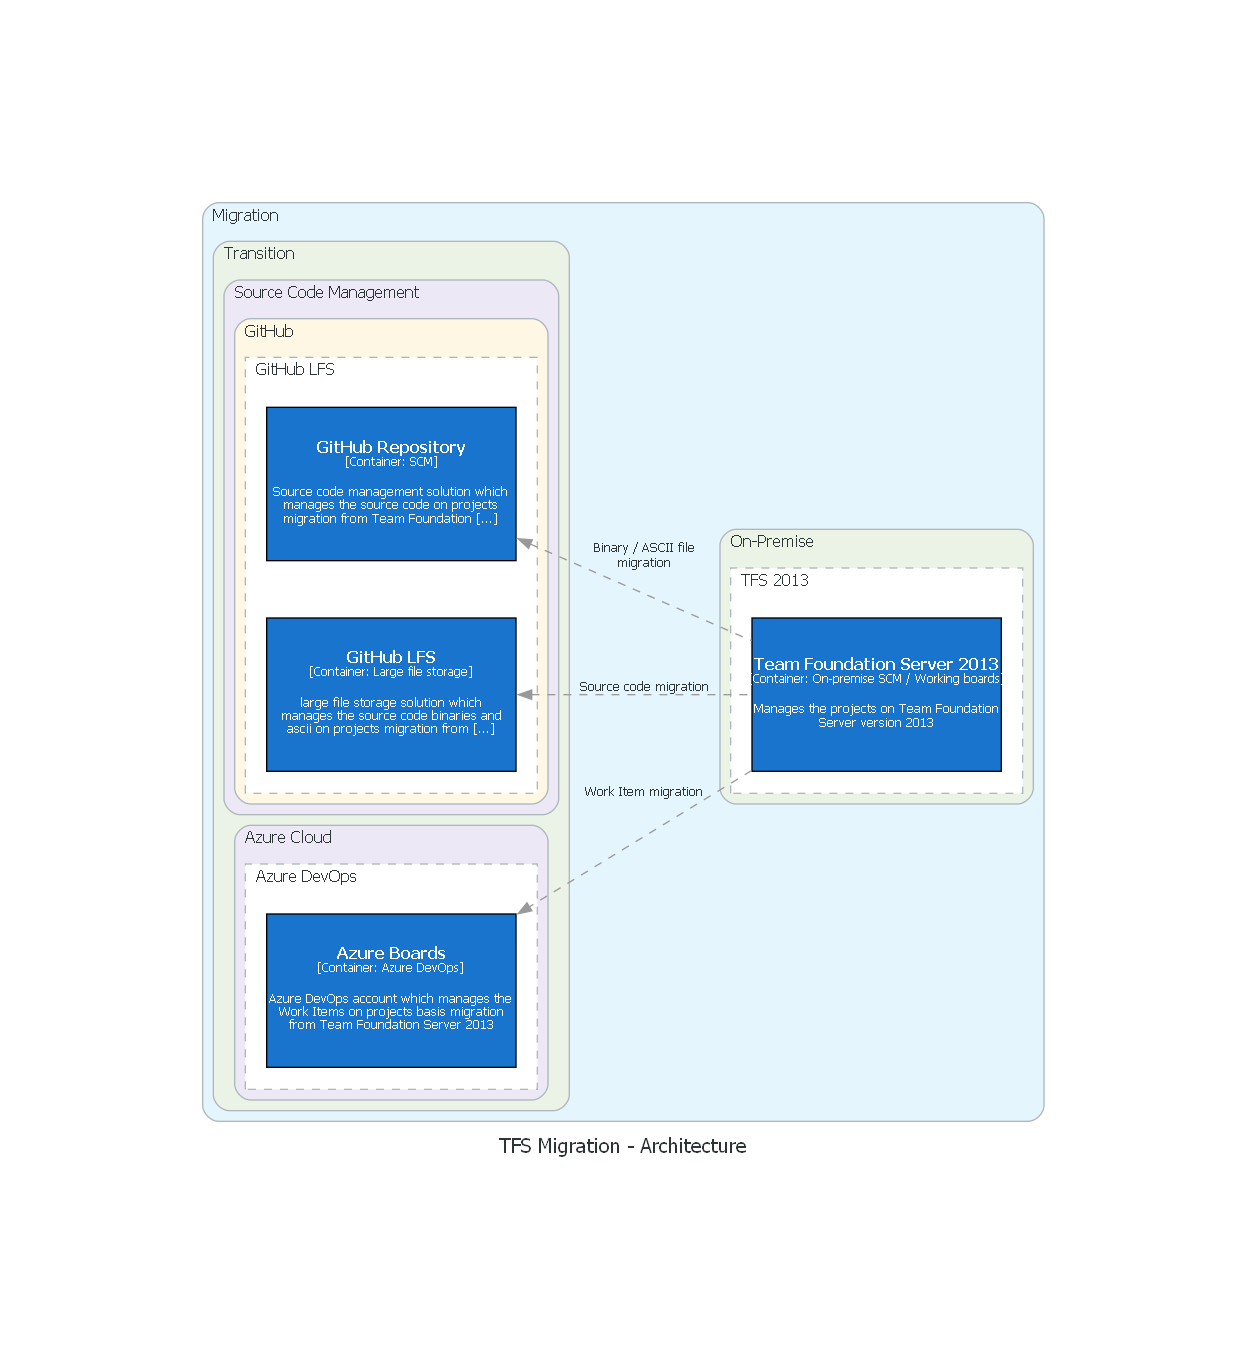
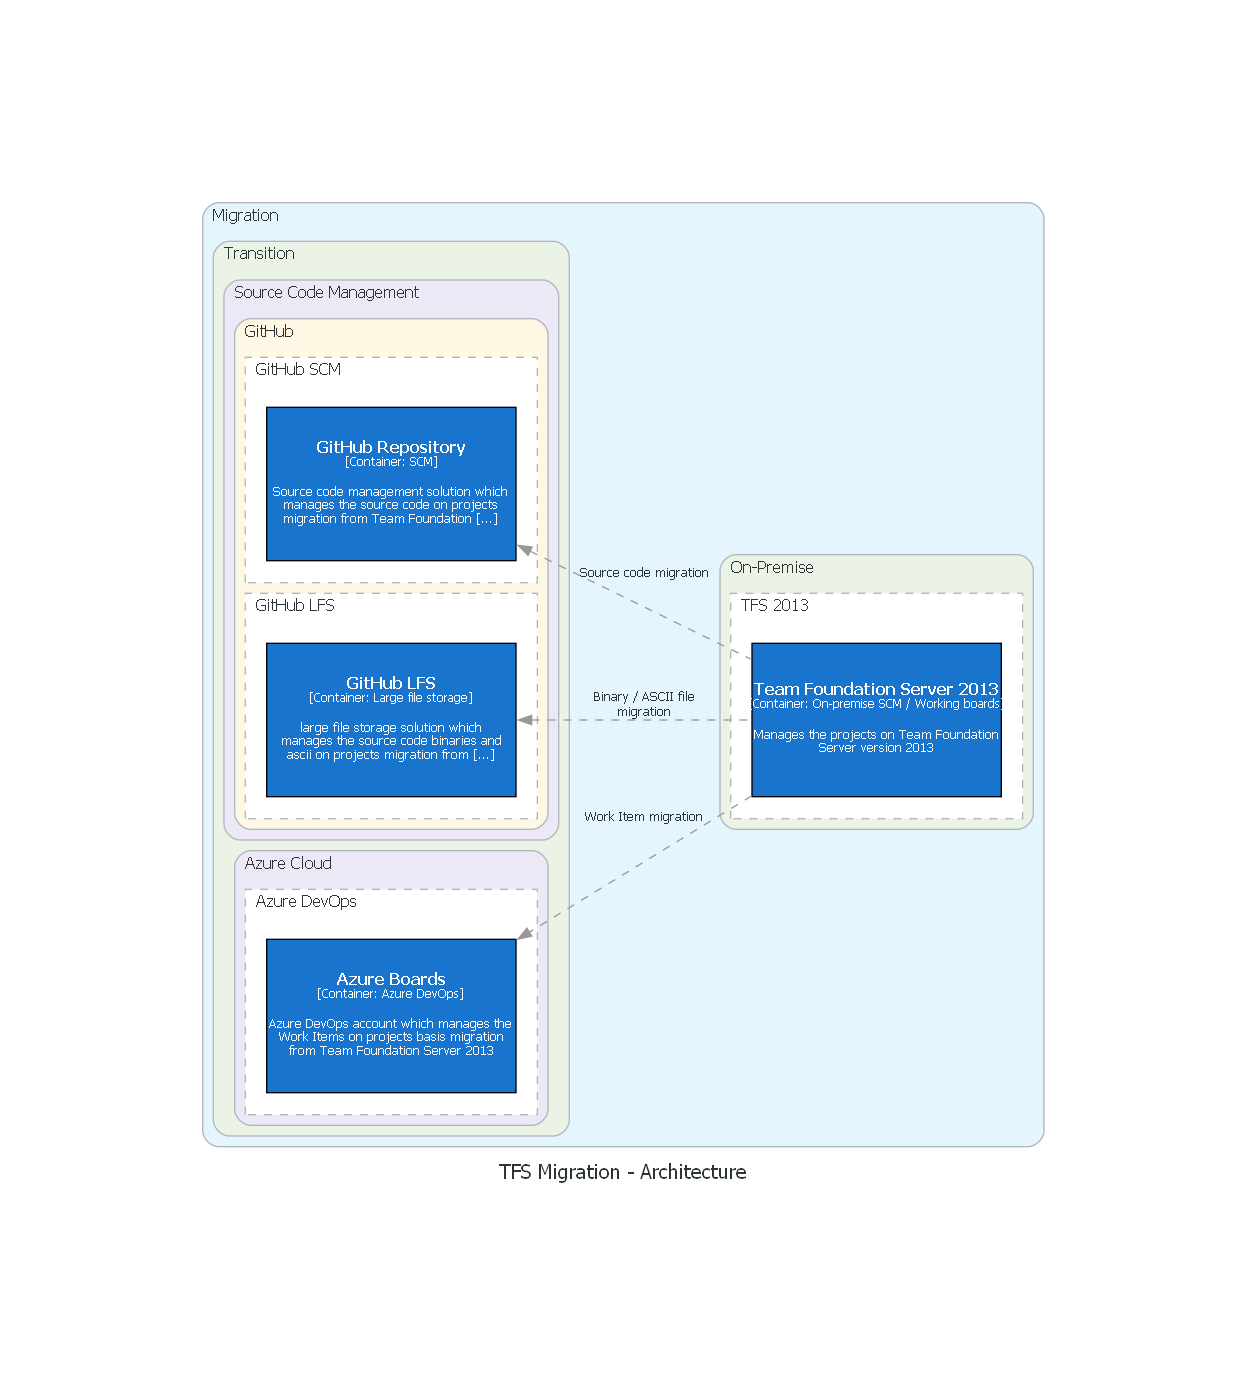
typo: corrected the architecture

Changed region(s): [[0.1524, 0.1238, 0.8228, 0.8666], [0.4571, 0.3714, 0.8228, 0.619], [0.518, 0.5881, 0.5485, 0.619]]

diff --git a/architecture/main.py b/architecture/main.py
@@ -26,13 +26,13 @@ with Diagram("TFS Migration - Architecture", direction="LR", graph_attr=graph_at
             with Cluster("Source Code Management"):
                 with Cluster("GitHub"):
                     with SystemBoundary("GitHub LFS"):
-                        github = Container(
+                        github_lfs = Container(
                             name="GitHub LFS",
                             technology="Large file storage",
                             description="large file storage solution which manages the source code binaries and ascii on projects migration from Team Foundation Server 2013",
                         )
-                    with SystemBoundary("GitHub LFS"):
-                        github_lfs = Container(
+                    with SystemBoundary("GitHub SCM"):
+                        github = Container(
                             name="GitHub Repository",
                             technology="SCM",
                             description="Source code management solution which manages the source code on projects migration from Team Foundation Server 2013",
